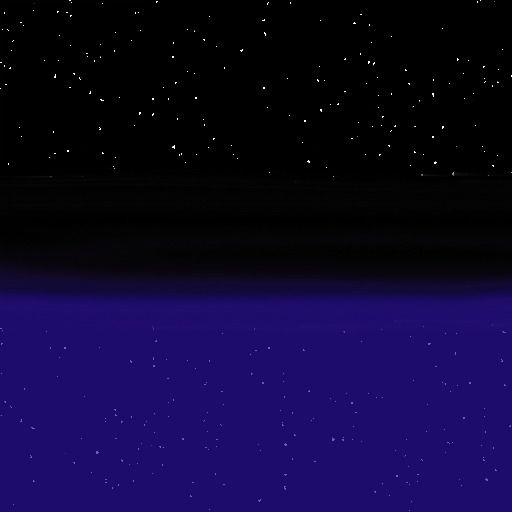
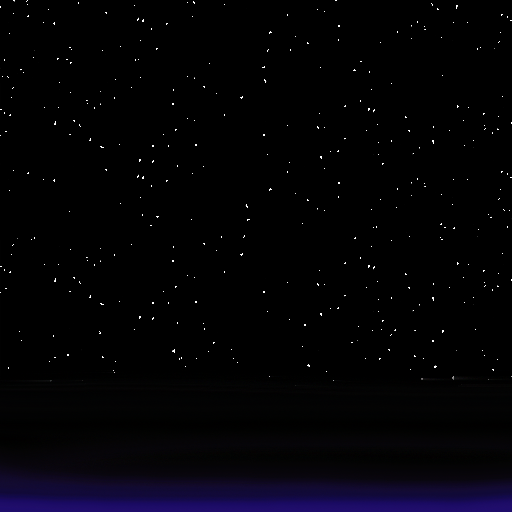
added camera controller

diff --git a/Assets/ChessCameraController.cs b/Assets/ChessCameraController.cs
@@ -1,0 +1,93 @@
+using UnityEngine;
+
+public class ChessCameraController : MonoBehaviour
+{
+    [SerializeField] private Transform target;
+    [SerializeField] private float rotationSpeed = 5f;
+    [SerializeField] private float zoomSpeed = 5f;
+    [SerializeField] private float minZoom = 2f;
+    [SerializeField] private float maxZoom = 15f;
+
+    private float currentZoom;
+    private float yaw;
+    private float pitch;
+
+    private Vector3 startingPosition;
+    private Quaternion startingRotation;
+
+    private bool reset = true;
+
+    private bool atStartingPoint = true;
+    
+    private void Start()
+    {
+        if (target == null)
+        {
+            Debug.LogError("ChessCameraController: Target is not assigned!");
+            enabled = false;
+            return;
+        }
+
+        startingPosition = transform.position;
+        startingRotation = transform.rotation;
+        currentZoom = (startingPosition - target.position).magnitude;
+        ResetCamera();
+    }
+
+    private void Update()
+    {
+        HandleRotation();
+        HandleZoom();
+
+        if (!atStartingPoint && Input.GetKeyDown(KeyCode.Space))
+        {
+            atStartingPoint = true;
+            ResetCamera();
+        }
+    }
+
+    private void LateUpdate()
+    {
+        UpdateCameraPosition();
+    }
+
+    private void HandleRotation()
+    {
+        if (Input.GetMouseButton(0))
+        {
+            atStartingPoint = false;
+            reset = false;
+            yaw += Input.GetAxis("Mouse X") * rotationSpeed;
+            pitch -= Input.GetAxis("Mouse Y") * rotationSpeed;
+            pitch = Mathf.Clamp(pitch, -30f, 60f);
+        }
+    }
+
+    private void HandleZoom()
+    {
+        float scroll = Input.GetAxis("Mouse ScrollWheel");
+        currentZoom -= scroll * zoomSpeed;
+        currentZoom = Mathf.Clamp(currentZoom, minZoom, maxZoom);
+    }
+
+    private void UpdateCameraPosition()
+    {
+        if (target == null) return;
+
+        Quaternion rotation = Quaternion.Euler(pitch, yaw, 0);
+        Vector3 direction = rotation * Vector3.back * currentZoom;
+
+        transform.position = target.position + direction;
+        transform.LookAt(target);
+    }
+
+    private void ResetCamera()
+    {
+        transform.position = startingPosition;
+        transform.rotation = startingRotation;
+        yaw = startingRotation.eulerAngles.y;
+        pitch = startingRotation.eulerAngles.x;
+        currentZoom = (startingPosition - target.position).magnitude;
+        reset = false;
+    }
+}
